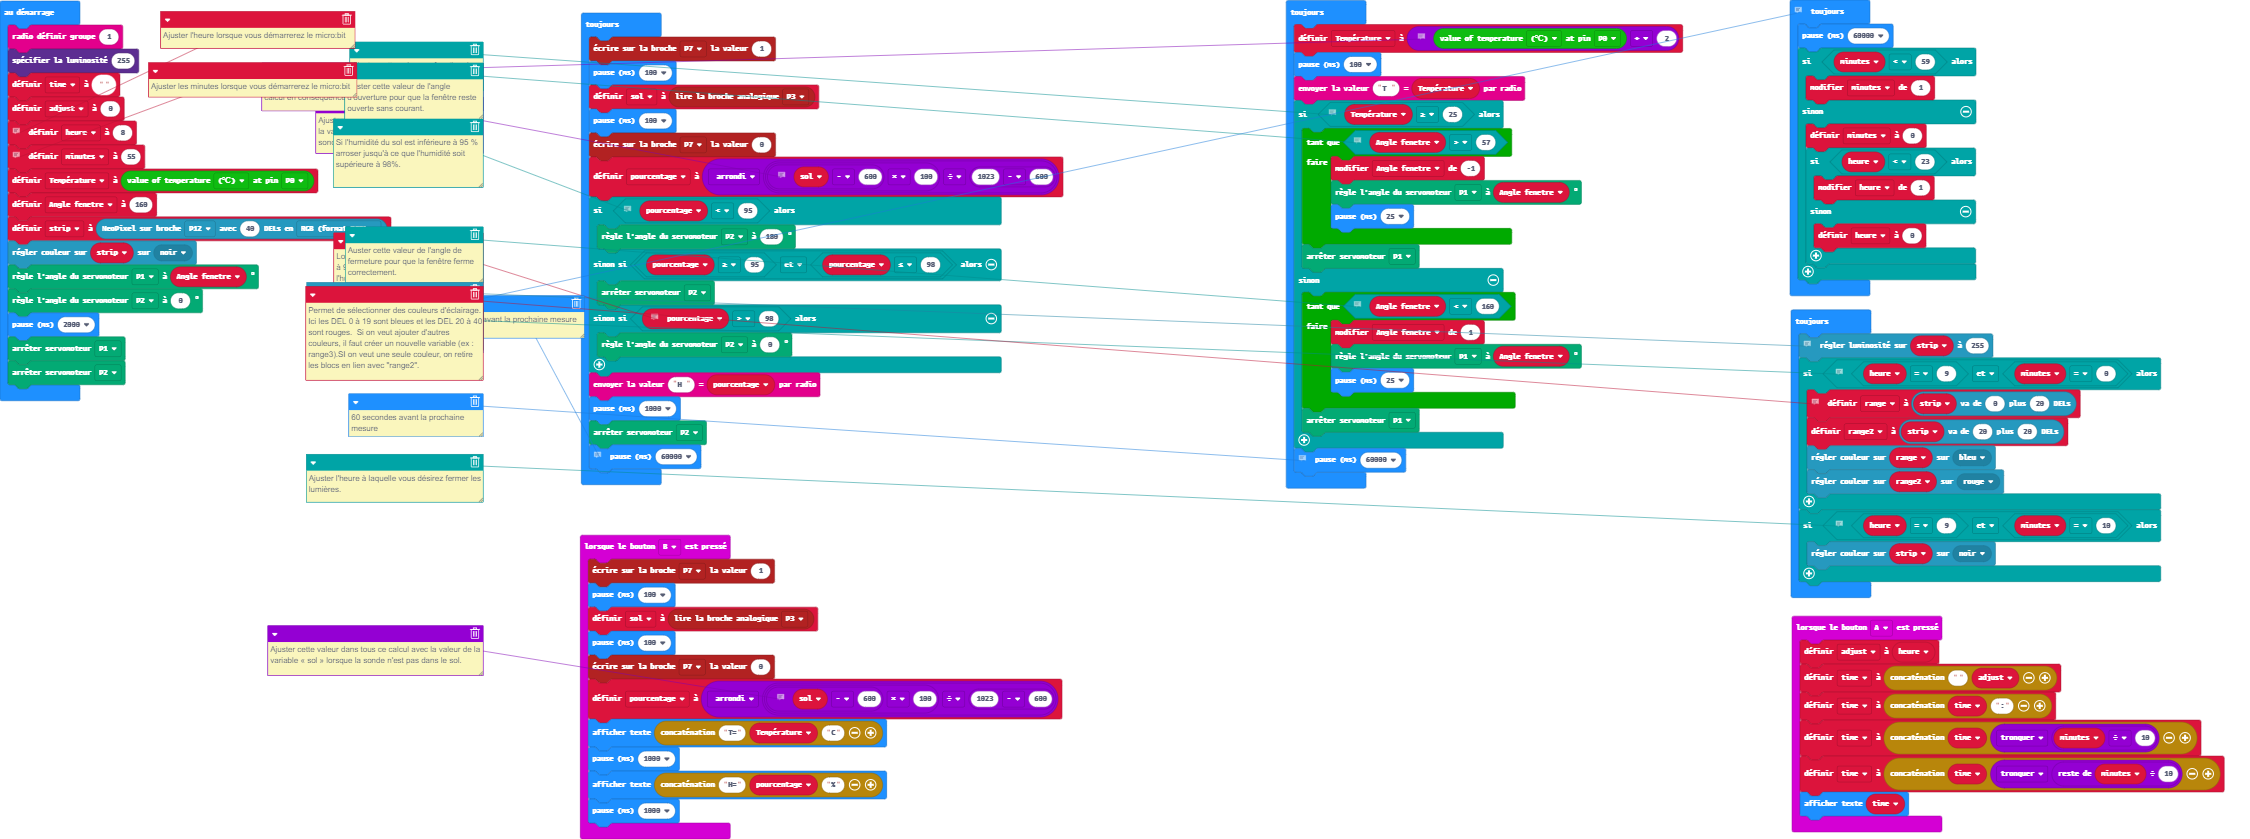
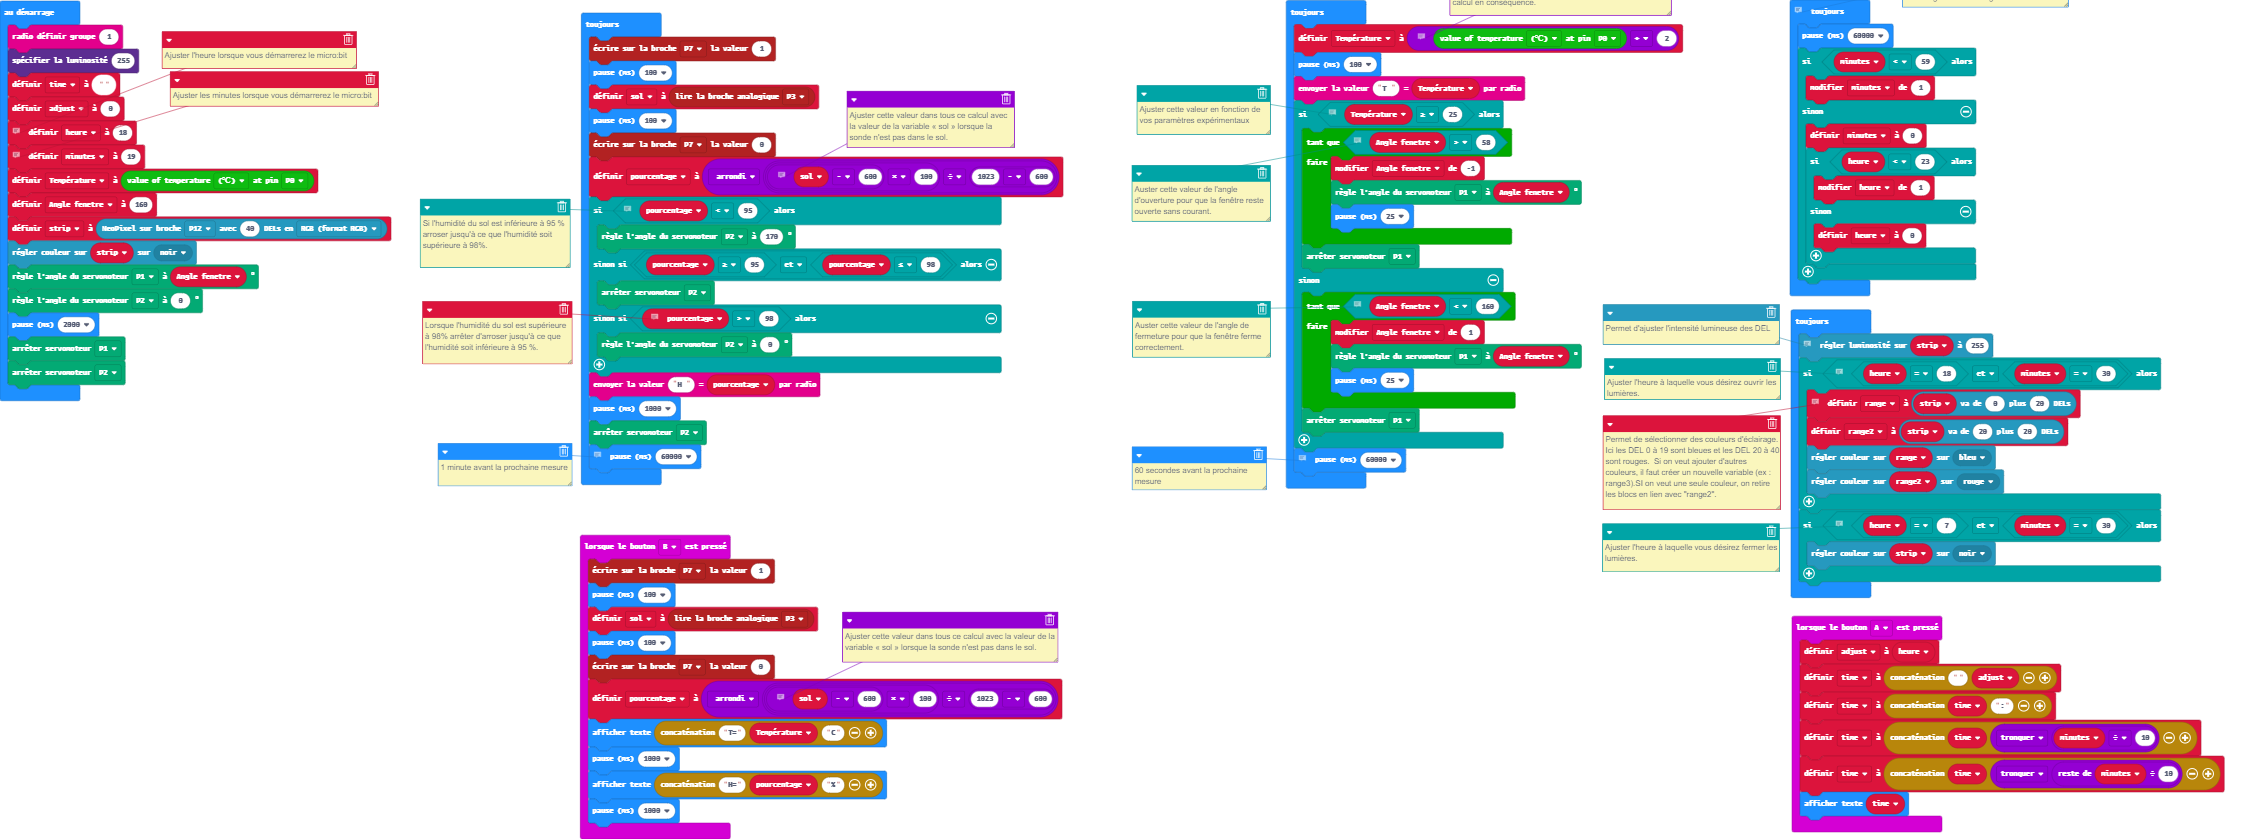
Restaurer '15/12/2020 à 19:15:59 Restaurer '15/12/2020 à 19:08:07 Mise à jour main.blocks, main.ts''

diff --git a/main.ts b/main.ts
@@ -33,9 +33,9 @@ led.setBrightness(255)
 time = ""
 adjust = 0
 // Ajuster l'heure lorsque vous démarrerez le micro:bit
-heure = 8
+heure = 18
 // Ajuster les minutes lorsque vous démarrerez le micro:bit
-minutes = 55
+minutes = 19
 Température = smarthome.ReadTemperature(TMP36Type.TMP36_temperature_C, AnalogPin.P0)
 let Angle_fenetre = 160
 let strip = neopixel.create(DigitalPin.P12, 40, NeoPixelMode.RGB)
@@ -56,7 +56,7 @@ basic.forever(function () {
     // Si l'humidité du sol est inférieure à 95 % arroser jusqu'à ce que l'humidité soit supérieure à 98%.
     // Lorsque l'humidité du sol est supérieure à 98% arrêter d'arroser jusqu'à ce que l'humidité soit inférieure à 95 %.
     if (pourcentage < 95) {
-        servos.P2.setAngle(180)
+        servos.P2.setAngle(170)
     } else if (pourcentage >= 95 && pourcentage <= 98) {
         servos.P2.stop()
     } else if (pourcentage > 98) {
@@ -65,7 +65,7 @@ basic.forever(function () {
     radio.sendValue("H ", pourcentage)
     basic.pause(1000)
     servos.P2.stop()
-    // 1 heure avant la prochaine mesure
+    // 1 minute avant la prochaine mesure
     basic.pause(60000)
 })
 basic.forever(function () {
@@ -76,7 +76,7 @@ basic.forever(function () {
     // Ajuster cette valeur en fonction de vos paramètres expérimentaux
     if (Température >= 25) {
         // Auster cette valeur de l'angle d'ouverture pour que la fenêtre reste ouverte sans courant.
-        while (Angle_fenetre > 57) {
+        while (Angle_fenetre > 58) {
             Angle_fenetre += -1
             servos.P1.setAngle(Angle_fenetre)
             basic.pause(25)
@@ -112,7 +112,7 @@ basic.forever(function () {
     // Permet d'ajuster l'intensité lumineuse des DEL
     strip.setBrightness(255)
     // Ajuster l'heure à laquelle vous désirez ouvrir les lumières.
-    if (heure == 9 && minutes == 0) {
+    if (heure == 18 && minutes == 30) {
         // Permet de sélectionner des couleurs d'éclairage.  Ici les DEL 0 à 19 sont bleues et les DEL 20 à 40 sont rouges.  Si on veut ajouter d'autres couleurs, il faut créer un nouvelle variable (ex : range3).SI on veut une seule couleur, on retire les blocs en lien avec "range2".
         range = strip.range(0, 20)
         range2 = strip.range(20, 20)
@@ -120,7 +120,7 @@ basic.forever(function () {
         range2.showColor(neopixel.colors(NeoPixelColors.Red))
     }
     // Ajuster l'heure à laquelle vous désirez fermer les lumières.
-    if (heure == 9 && minutes == 10) {
+    if (heure == 7 && minutes == 30) {
         strip.showColor(neopixel.colors(NeoPixelColors.Black))
     }
 })
